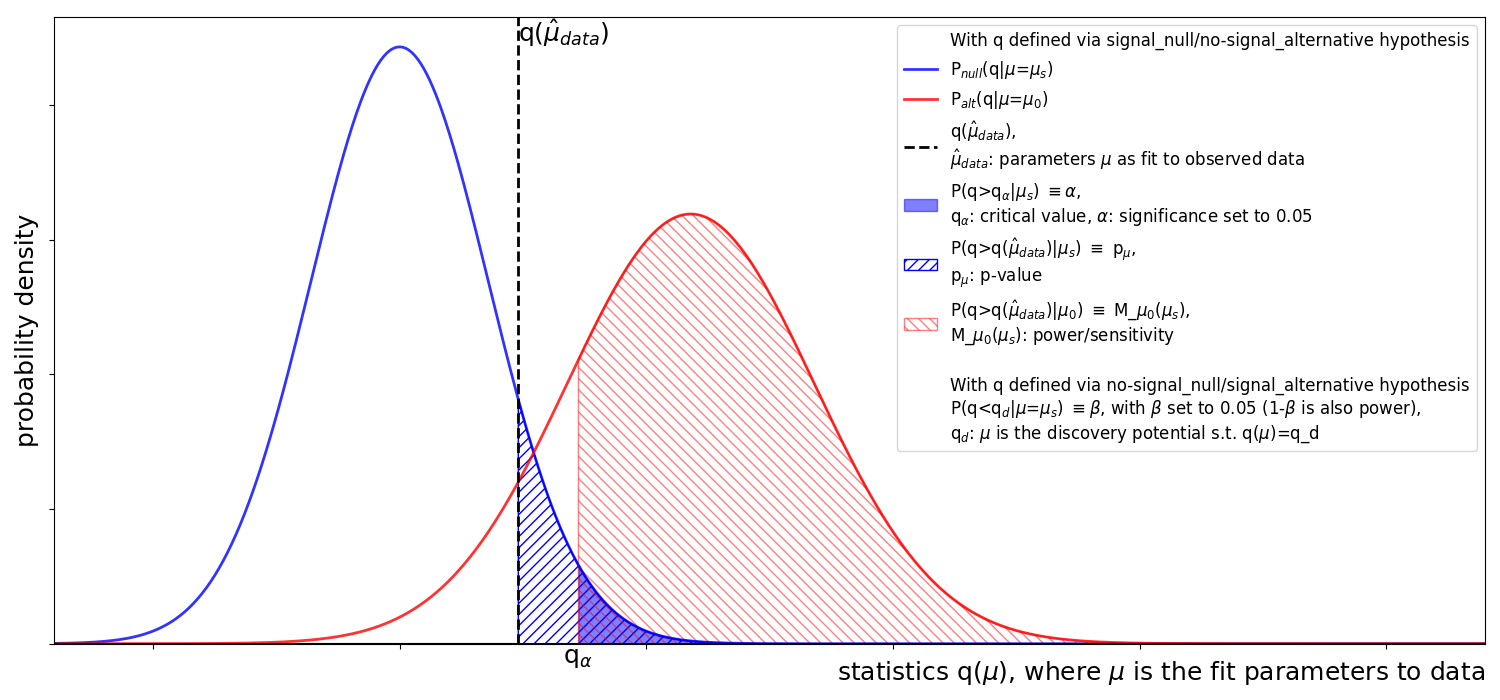
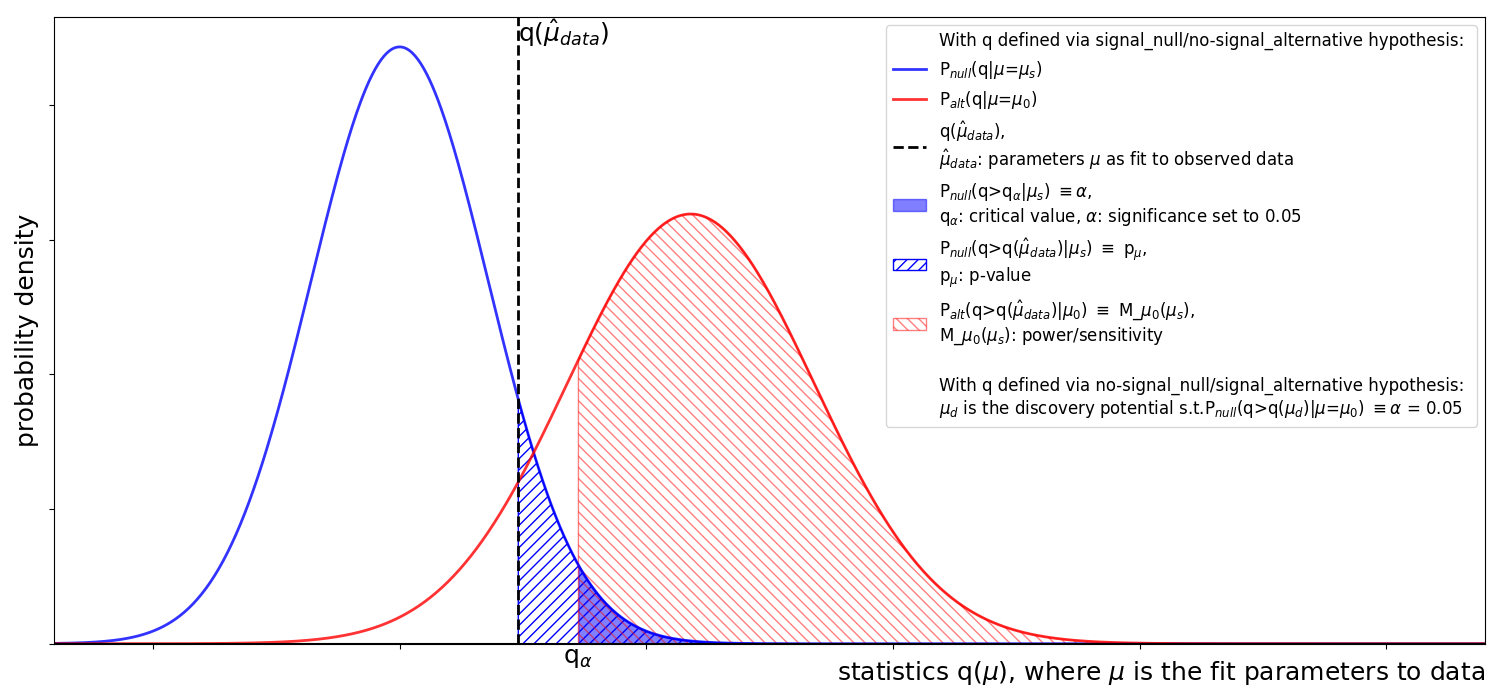
- even more def corrections

diff --git a/hypoTestingDef.py b/hypoTestingDef.py
@@ -14,7 +14,7 @@ from scipy import optimize
 from scipy import stats
 from tqdm import tqdm
 
-###########################################################################################
+#####################################################################################################
 def main():
     verbosity = 1
     rangeX = [-7, 22]
@@ -27,7 +27,7 @@ def main():
 #    muSigNull = [0.0, 3.5]
 #    muSigAlt  = [8.0, 0.5]
 #    dataLoc = 2.4
-###########################################################################################
+#####################################################################################################
     qVal     = np.linspace(*rangeX, plotRes)
     baseline = qVal*0.0
     gausNull = gaussian(*muSigNull, qVal)
@@ -64,20 +64,19 @@ def main():
                               color="none", alpha=0.5, hatch="\\\\\\", edgecolor='red') 
     blank = ax0.axvline(x=dataLoc, ymin=0.0, ymax=1.0, color="black", alpha=0.0)
     plotList = [[blank, nullDist, altDist, dataLine, CRfill, PVFill, PSfill, blank], \
-                ["With q defined via signal_null/no-signal_alternative hypothesis",\
+                ["With q defined via signal_null/no-signal_alternative hypothesis:",\
                  "P$_{null}$(q|$\mu$=$\mu_s$)",\
                  "P$_{alt}$(q|$\mu$=$\mu_0$)", 
                  "q($\hat{\mu}_{data}$),\n"+\
                  "$\hat{\mu}_{data}$: parameters $\mu$ as fit to observed data",
-                 "P(q>q$_\\alpha$|$\mu_s$) $\equiv \\alpha$,\n"+\
+                 "P$_{null}$(q>q$_\\alpha$|$\mu_s$) $\equiv \\alpha$,\n"+\
                  "q$_\\alpha$: critical value, $\\alpha$: significance set to 0.05",\
-                 "P(q>q($\hat{\mu}_{data}$)|$\mu_s$) $\equiv$ p$_\mu$,\np$_\mu$: p-value",\
-                 "P(q>q($\hat{\mu}_{data}$)|$\mu_0$) $\equiv$ M_$\mu_0$($\mu_s$),\n"+\
+                 "P$_{null}$(q>q($\hat{\mu}_{data}$)|$\mu_s$) $\equiv$ p$_\mu$,\np$_\mu$: p-value",\
+                 "P$_{alt}$(q>q($\hat{\mu}_{data}$)|$\mu_0$) $\equiv$ M_$\mu_0$($\mu_s$),\n"+\
                  "M_$\mu_0$($\mu_s$): power/sensitivity",\
-                 "\nWith q defined via no-signal_null/signal_alternative hypothesis\n"+\
-                 "P(q<q$_d$|$\mu$=$\mu_s$) $\equiv \\beta$, with $\\beta$ set to 0.05"+\
-                 " (1-$\\beta$ is also power),\n"+\
-                 "q$_d$: $\mu$ is the discovery potential s.t. q($\mu$)=q_d"]]
+                 "\nWith q defined via no-signal_null/signal_alternative hypothesis: \n"+\
+                 "$\mu_d$ is the discovery potential s.t."+\
+                 "P$_{null}$(q>q($\mu_d$)|$\mu$=$\mu_0$) $\equiv \\alpha$ = 0.05"]]
     legObj = ax0.legend(*plotList, loc="upper right", fontsize=12)
 
     ylim = ax0.get_ylim()
@@ -91,7 +90,7 @@ def main():
     plt.savefig(filenameFig)
     if verbosity >= 1: print("Creating the following files:\n" + filenameFig)
 
-#################################################@#########################################
+#####################################################################################################
 TOLERANCE = pow(10.0, -10)
 SNUMBER   = pow(10.0, -124)
 def gaussian(mu, sig, x):
@@ -100,7 +99,7 @@ def gaussian(mu, sig, x):
          *(1.0/(sig*np.sqrt(2.0*np.pi)))
     vals[vals < SNUMBER] = SNUMBER
     return vals
-###########################################################################################
+#####################################################################################################
 if __name__ == "__main__":
     print("\n####################################################################Head")
     main()
